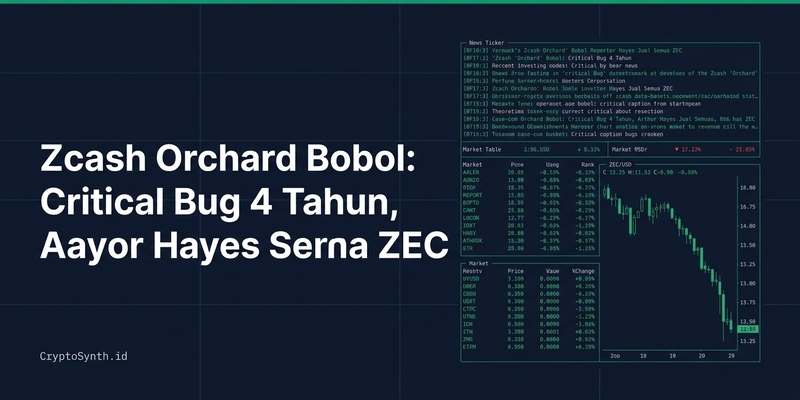
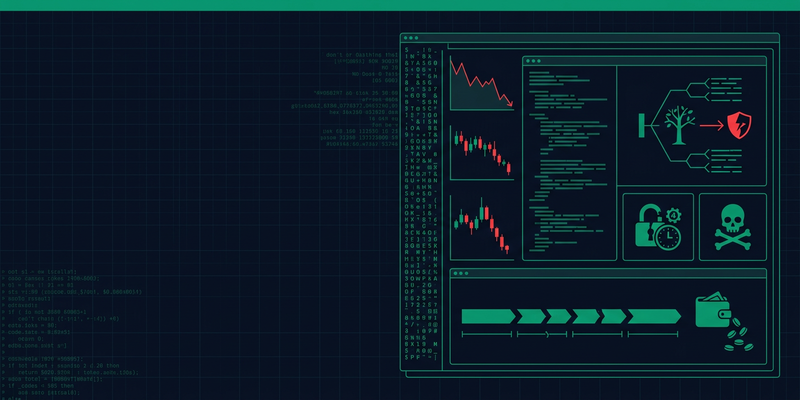
fix(scripts): remove text rendering from image prompts — AI garbled text

Changed region(s): [[0.0312, 0.06, 1.0, 0.96], [0.0, 0.0, 1.0, 0.03], [0.0312, 0.87, 0.1562, 0.9]]

diff --git a/scripts/generate-images.py b/scripts/generate-images.py
@@ -120,20 +120,18 @@ def build_og_prompt(title: str, category: str, description: str = "") -> str:
     title_keywords = title.replace('"', "").replace("'", "")
     desc_hint = f" Article context: {description[:200]}" if description else ""
 
-    return f"""Generate a dark terminal-themed OG image (1200x630) for a crypto blog article.
+    return f"""Generate a dark terminal-themed OG image (1200x630) for a crypto blog article. DO NOT render any text - no title text, no labels, no "CryptoSynth.id", no category badges. Pure visuals only.
 
-Title: "{title}"
+Title context: "{title}"
 Category: {category}{desc_hint}
 
 Visual requirements:
 - Dark background (#0F172A) with subtle grid lines
-- {visual['palette']} - thin top border line and category badge
+- {visual['palette']} - thin top border line
 - Visual: {visual['icon']}
 - {visual['theme']}
-- Big text "{title}" in white bold font, left-aligned, max 3 lines
-- Small text "CryptoSynth.id" at bottom left in {visual['palette'].split()[0]}
-- Category badge "{category}" at top left
 - UNIQUE design: the image MUST visually reference "{title_keywords[:60]}" specifically, not generic crypto imagery
+- NO TEXT whatsoever on the image
 
 Style: hacker terminal aesthetic, minimal, no human faces, no gradients, flat design. Terminal dashboard look. Every image for this blog should be visually distinct - never use the same chart pattern, icon layout, or composition twice."""
 
@@ -143,18 +141,17 @@ def build_hero_prompt(title: str, category: str, description: str = "") -> str:
     title_keywords = title.replace('"', "").replace("'", "")
     desc_hint = f" Article context: {description[:150]}" if description else ""
 
-    return f"""Generate a dark terminal-themed hero image (800x400) for a crypto blog article.
+    return f"""Generate a dark terminal-themed hero image (800x400) for a crypto blog article. DO NOT render any text - no title text, no labels, no "CryptoSynth.id". Pure visuals only.
 
-Title: "{title}"
+Title context: "{title}"
 Category: {category}{desc_hint}
 
 Visual requirements:
 - Dark background (#0F172A) with subtle grid lines
 - {visual['palette']} - thin top border line
 - Visual on right side: {visual['icon']}
-- Text "{title}" in white bold font, left-aligned, max 3 lines
-- Small text "CryptoSynth.id" at bottom left
 - UNIQUE design: must visually reference "{title_keywords[:50]}" specifically
+- NO TEXT whatsoever on the image
 
 Style: hacker terminal aesthetic, minimal, no human faces, no gradients, flat design. Never reuse the same layout or chart style from previous images."""
 
